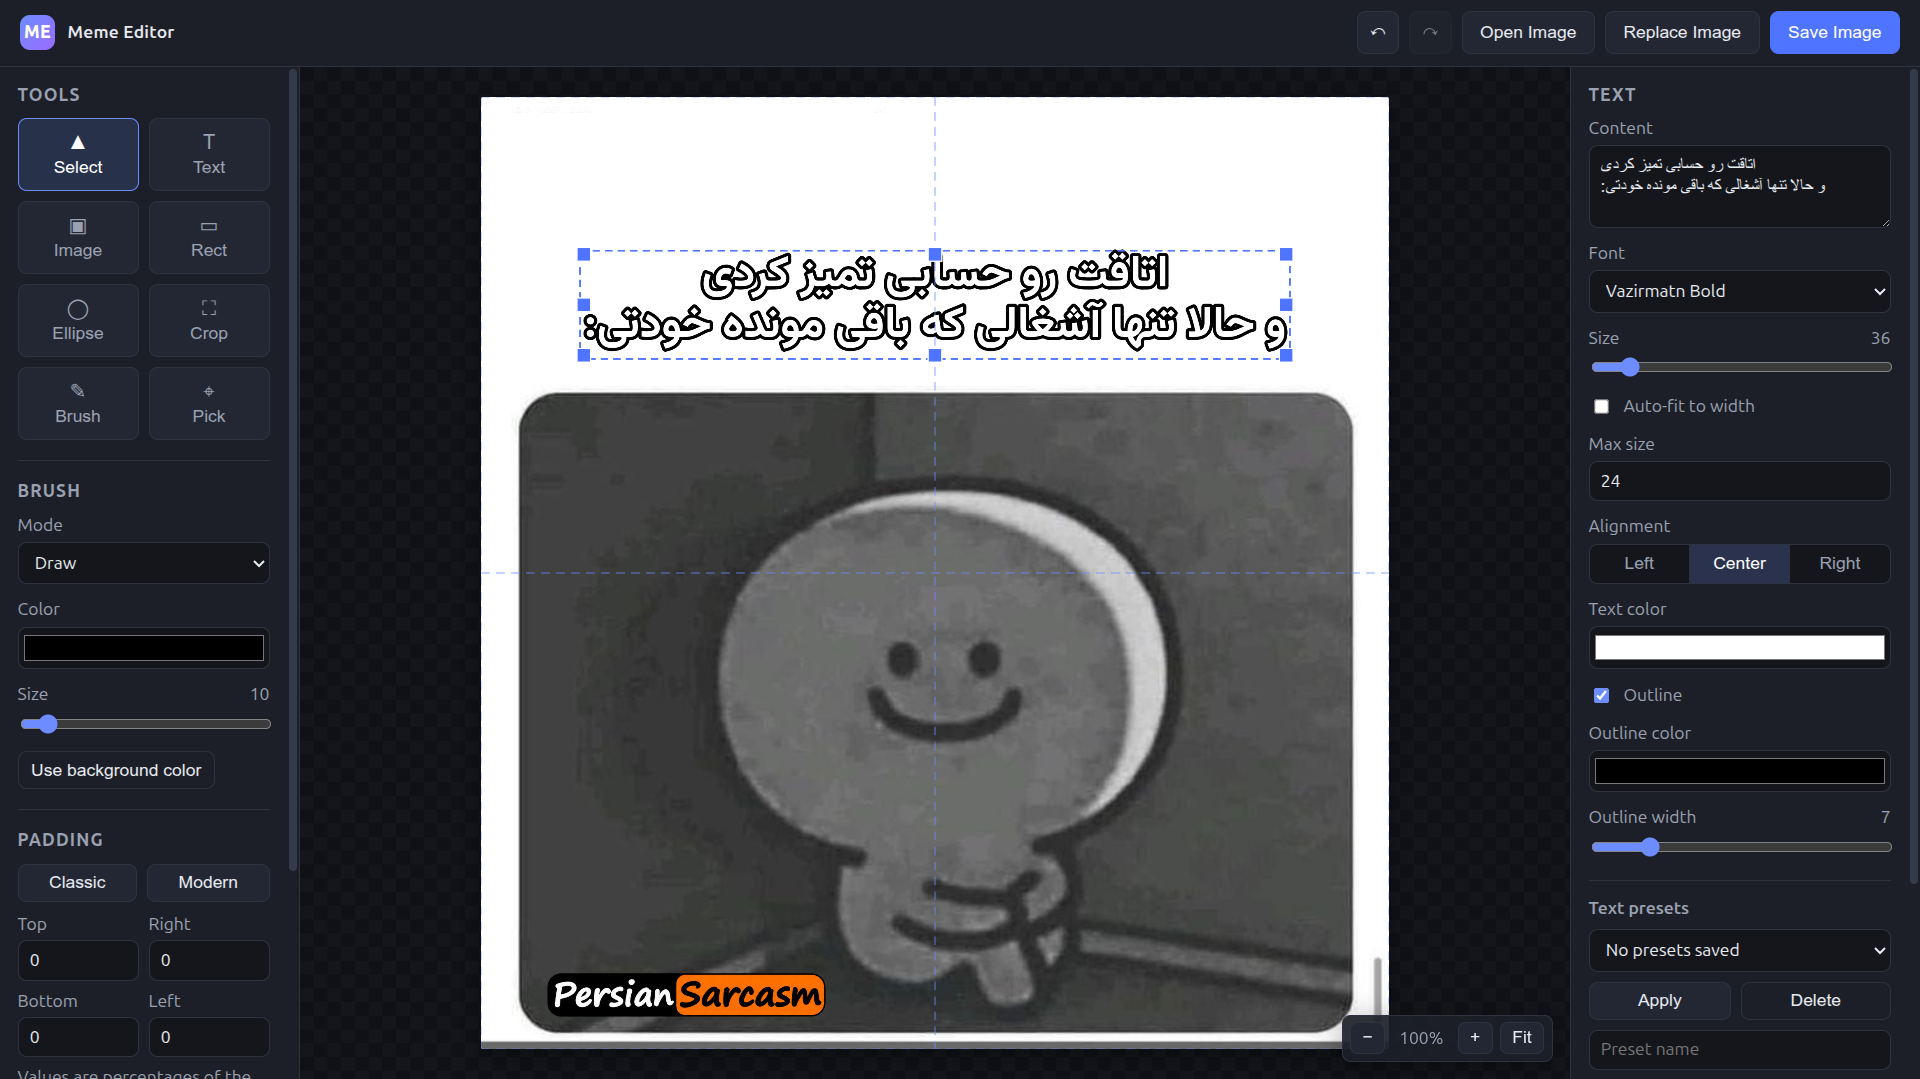
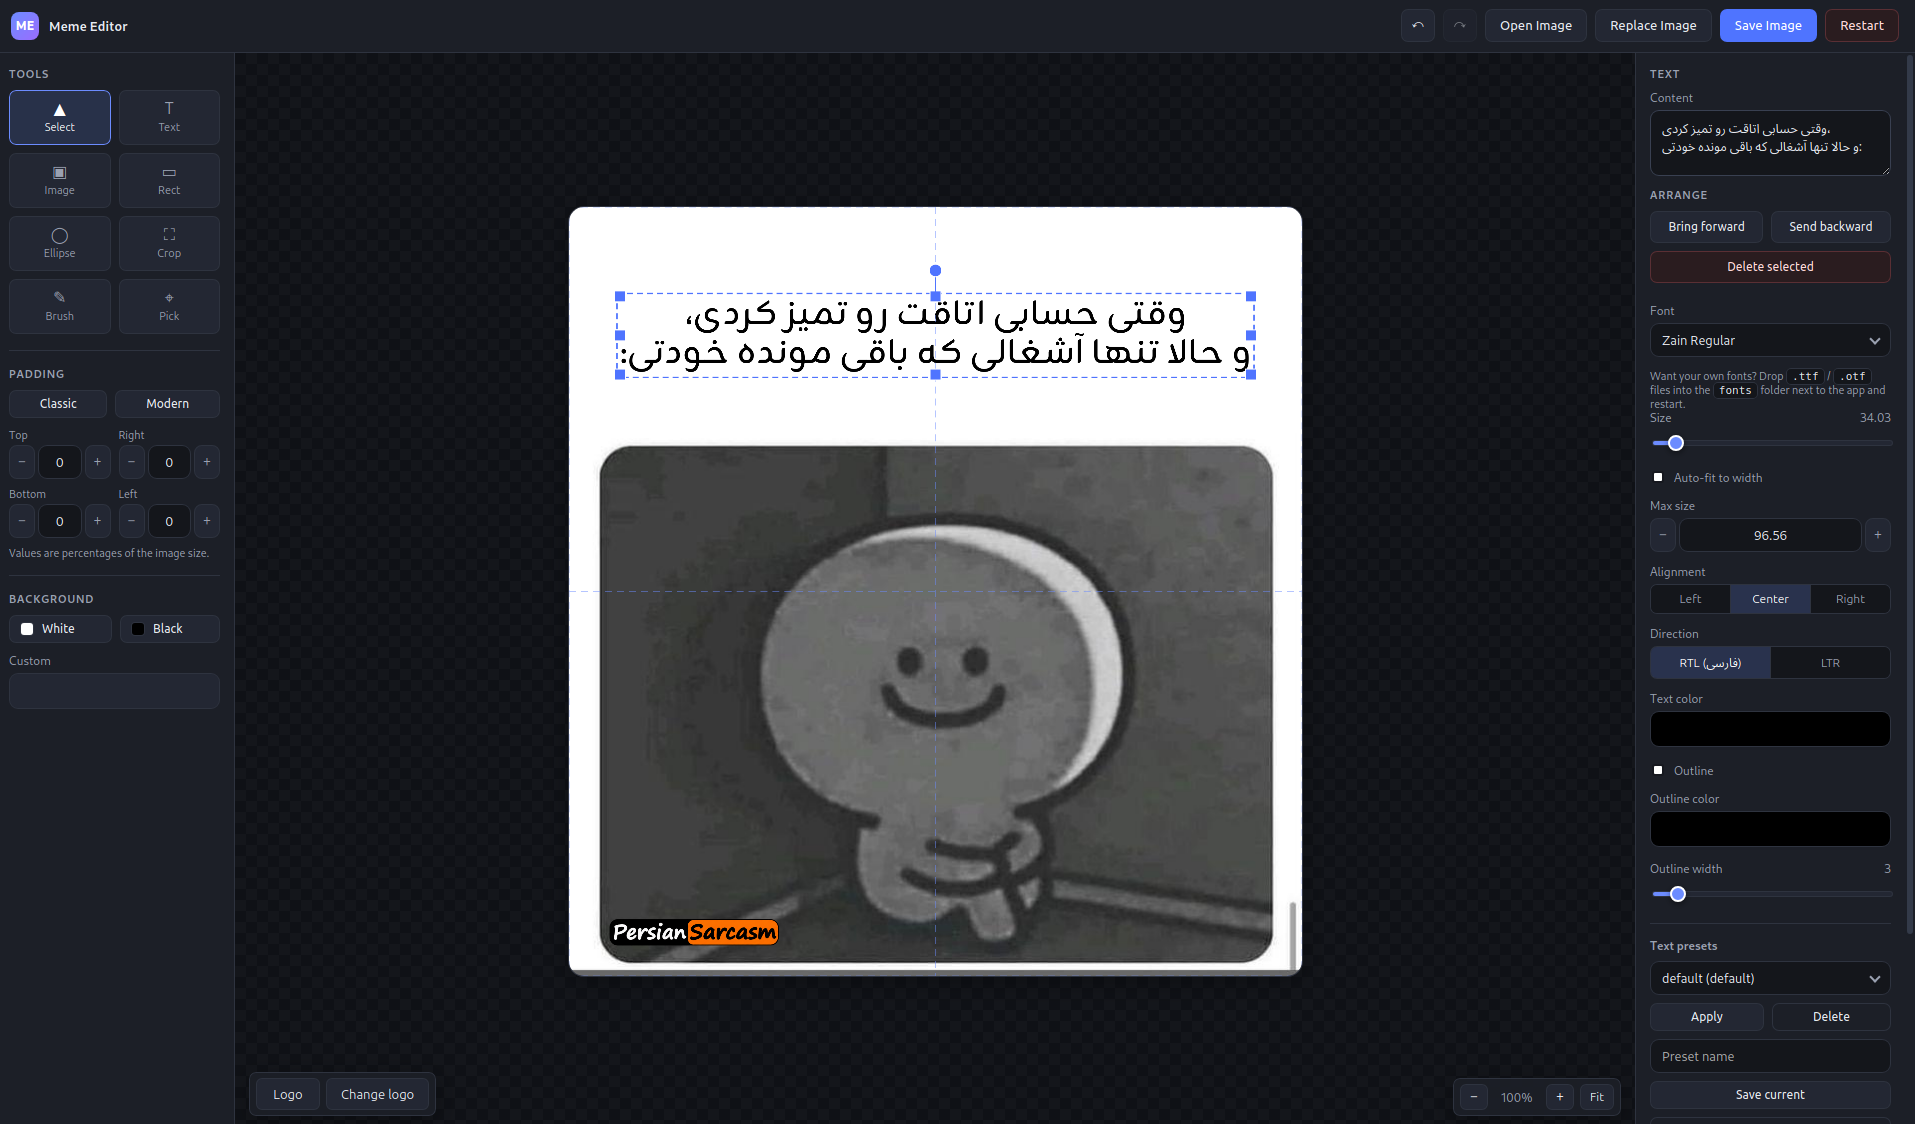
added small ui fixes

diff --git a/app.js b/app.js
@@ -2237,6 +2237,14 @@
             }
             const handle = hitHandle(selected, p);
             if (handle) {
+                // Resizing an auto-fit text switches it to manual sizing, so the
+                // box follows the cursor linearly instead of re-fitting to the
+                // document width and jittering around.
+                if (selected.type === "text" && selected.autoFit) {
+                    selected.fontSize = getEffectiveFontSize(selected);
+                    selected.autoFit = false;
+                    selected.scaleY = 1;
+                }
                 interaction = {
                     kind: "resize",
                     object: selected,
@@ -2388,13 +2396,13 @@
             const y1 = clamp(Math.max(s.y, local.y), b.y, b.y + b.height);
             imageCrop.rect = { x: x0, y: y0, width: x1 - x0, height: y1 - y0 };
             syncUI();
-            requestRender();
+            render();
             return;
         }
 
         if (interaction.kind === "crop") {
             crop = clampCropRect(interaction.start, p);
-            requestRender();
+            render();
             return;
         }
 
@@ -2405,7 +2413,7 @@
             o.y = Math.min(s.y, p.y);
             o.width = Math.abs(p.x - s.x);
             o.height = Math.abs(p.y - s.y);
-            requestRender();
+            render();
             return;
         }
 
@@ -2416,7 +2424,7 @@
             o.y = snap.y;
             guideState = { allV: snap.allV, allH: snap.allH, v: snap.v, h: snap.h };
             interaction.moved = true;
-            requestRender();
+            render();
             return;
         }
 
@@ -2427,7 +2435,7 @@
             if (event.shiftKey) rot = Math.round(rot / 15) * 15;
             interaction.object.rotation = normalizeAngle(rot);
             updateRotationUI(interaction.object);
-            requestRender();
+            render();
             return;
         }
 
@@ -2440,7 +2448,7 @@
                 pp = rotatePoint(p, c, -rot);
             }
             applyResize(interaction, pp);
-            requestRender();
+            render();
             return;
         }
     }
